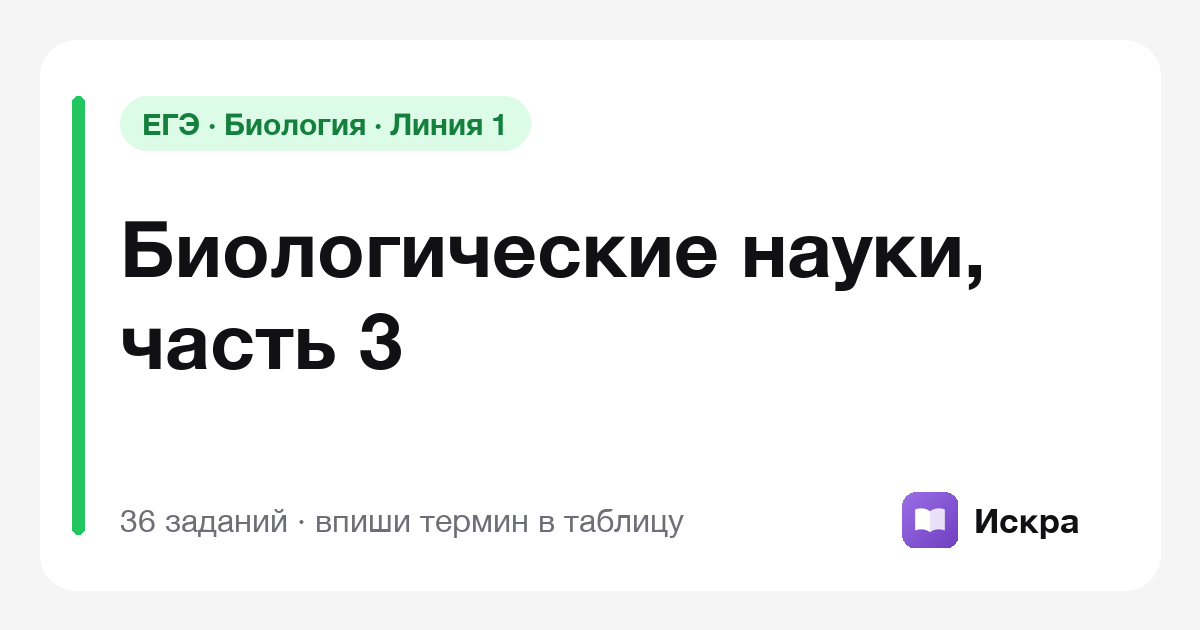
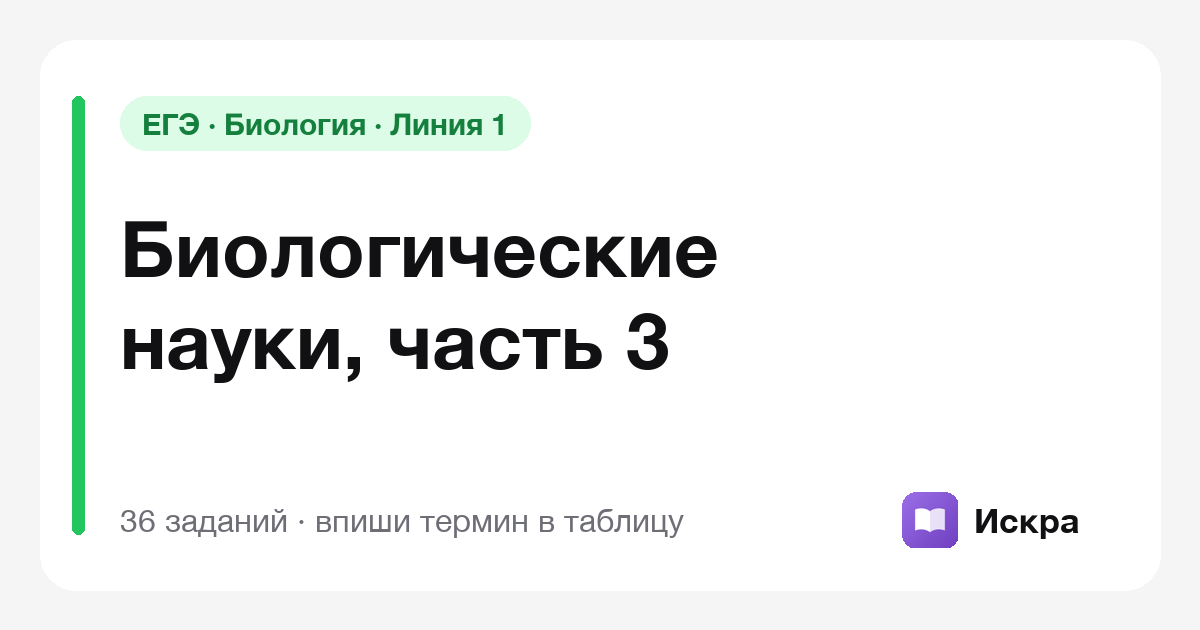
fix(тесты, ссылки): переносы в превью — «часть N» и «и» не отрываются от слова, строки выровнены, длинное название мельче в 2 строки

Changed region(s): [[0.0925, 0.4825, 0.555, 0.6032], [0.6167, 0.3619, 0.8325, 0.4825]]

diff --git a/public/t/custom-bio-line1-5-p2.html b/public/t/custom-bio-line1-5-p2.html
@@ -3,18 +3,18 @@
 <head>
 <meta charset="utf-8">
 <meta name="viewport" content="width=device-width, initial-scale=1">
-<title>Методы цитологии, генетики и селекции, часть 2 — тест по биологии</title>
+<title>Методы цитологии, генетики и селекции, часть 2 — тест по биологии</title>
 <meta name="description" content="Линия 1 ЕГЭ · 33 задания: впиши пропущенный термин в таблицу">
 <meta property="og:type" content="website">
 <meta property="og:site_name" content="Искра">
-<meta property="og:title" content="Методы цитологии, генетики и селекции, часть 2 — тест по биологии">
+<meta property="og:title" content="Методы цитологии, генетики и селекции, часть 2 — тест по биологии">
 <meta property="og:description" content="Линия 1 ЕГЭ · 33 задания: впиши пропущенный термин в таблицу">
 <meta property="og:url" content="https://edu-study-app.vercel.app/t/custom-bio-line1-5-p2">
-<meta property="og:image" content="https://edu-study-app.vercel.app/og/custom-bio-line1-5-p2.png">
+<meta property="og:image" content="https://edu-study-app.vercel.app/og/custom-bio-line1-5-p2.png?v=3">
 <meta property="og:image:width" content="1200">
 <meta property="og:image:height" content="630">
 <meta name="twitter:card" content="summary_large_image">
-<meta name="twitter:image" content="https://edu-study-app.vercel.app/og/custom-bio-line1-5-p2.png">
+<meta name="twitter:image" content="https://edu-study-app.vercel.app/og/custom-bio-line1-5-p2.png?v=3">
 <link rel="icon" type="image/svg+xml" href="/icon.svg?v=2">
 <script>
   // Лишние параметры короткой ссылки (?assignment=…) едут в тест как есть.

diff --git a/public/t/custom-bio-line1-5-p3.html b/public/t/custom-bio-line1-5-p3.html
@@ -3,18 +3,18 @@
 <head>
 <meta charset="utf-8">
 <meta name="viewport" content="width=device-width, initial-scale=1">
-<title>Методы цитологии, генетики и селекции, часть 3 — тест по биологии</title>
+<title>Методы цитологии, генетики и селекции, часть 3 — тест по биологии</title>
 <meta name="description" content="Линия 1 ЕГЭ · 33 задания: впиши пропущенный термин в таблицу">
 <meta property="og:type" content="website">
 <meta property="og:site_name" content="Искра">
-<meta property="og:title" content="Методы цитологии, генетики и селекции, часть 3 — тест по биологии">
+<meta property="og:title" content="Методы цитологии, генетики и селекции, часть 3 — тест по биологии">
 <meta property="og:description" content="Линия 1 ЕГЭ · 33 задания: впиши пропущенный термин в таблицу">
 <meta property="og:url" content="https://edu-study-app.vercel.app/t/custom-bio-line1-5-p3">
-<meta property="og:image" content="https://edu-study-app.vercel.app/og/custom-bio-line1-5-p3.png">
+<meta property="og:image" content="https://edu-study-app.vercel.app/og/custom-bio-line1-5-p3.png?v=3">
 <meta property="og:image:width" content="1200">
 <meta property="og:image:height" content="630">
 <meta name="twitter:card" content="summary_large_image">
-<meta name="twitter:image" content="https://edu-study-app.vercel.app/og/custom-bio-line1-5-p3.png">
+<meta name="twitter:image" content="https://edu-study-app.vercel.app/og/custom-bio-line1-5-p3.png?v=3">
 <link rel="icon" type="image/svg+xml" href="/icon.svg?v=2">
 <script>
   // Лишние параметры короткой ссылки (?assignment=…) едут в тест как есть.

diff --git a/public/t/custom-bio-line1-5-p4.html b/public/t/custom-bio-line1-5-p4.html
@@ -3,18 +3,18 @@
 <head>
 <meta charset="utf-8">
 <meta name="viewport" content="width=device-width, initial-scale=1">
-<title>Методы цитологии, генетики и селекции, часть 4 — тест по биологии</title>
+<title>Методы цитологии, генетики и селекции, часть 4 — тест по биологии</title>
 <meta name="description" content="Линия 1 ЕГЭ · 33 задания: впиши пропущенный термин в таблицу">
 <meta property="og:type" content="website">
 <meta property="og:site_name" content="Искра">
-<meta property="og:title" content="Методы цитологии, генетики и селекции, часть 4 — тест по биологии">
+<meta property="og:title" content="Методы цитологии, генетики и селекции, часть 4 — тест по биологии">
 <meta property="og:description" content="Линия 1 ЕГЭ · 33 задания: впиши пропущенный термин в таблицу">
 <meta property="og:url" content="https://edu-study-app.vercel.app/t/custom-bio-line1-5-p4">
-<meta property="og:image" content="https://edu-study-app.vercel.app/og/custom-bio-line1-5-p4.png">
+<meta property="og:image" content="https://edu-study-app.vercel.app/og/custom-bio-line1-5-p4.png?v=3">
 <meta property="og:image:width" content="1200">
 <meta property="og:image:height" content="630">
 <meta name="twitter:card" content="summary_large_image">
-<meta name="twitter:image" content="https://edu-study-app.vercel.app/og/custom-bio-line1-5-p4.png">
+<meta name="twitter:image" content="https://edu-study-app.vercel.app/og/custom-bio-line1-5-p4.png?v=3">
 <link rel="icon" type="image/svg+xml" href="/icon.svg?v=2">
 <script>
   // Лишние параметры короткой ссылки (?assignment=…) едут в тест как есть.

diff --git a/public/t/custom-bio-line1-5.html b/public/t/custom-bio-line1-5.html
@@ -3,18 +3,18 @@
 <head>
 <meta charset="utf-8">
 <meta name="viewport" content="width=device-width, initial-scale=1">
-<title>Методы цитологии, генетики и селекции, часть 1 — тест по биологии</title>
+<title>Методы цитологии, генетики и селекции, часть 1 — тест по биологии</title>
 <meta name="description" content="Линия 1 ЕГЭ · 33 задания: впиши пропущенный термин в таблицу">
 <meta property="og:type" content="website">
 <meta property="og:site_name" content="Искра">
-<meta property="og:title" content="Методы цитологии, генетики и селекции, часть 1 — тест по биологии">
+<meta property="og:title" content="Методы цитологии, генетики и селекции, часть 1 — тест по биологии">
 <meta property="og:description" content="Линия 1 ЕГЭ · 33 задания: впиши пропущенный термин в таблицу">
 <meta property="og:url" content="https://edu-study-app.vercel.app/t/custom-bio-line1-5">
-<meta property="og:image" content="https://edu-study-app.vercel.app/og/custom-bio-line1-5.png">
+<meta property="og:image" content="https://edu-study-app.vercel.app/og/custom-bio-line1-5.png?v=3">
 <meta property="og:image:width" content="1200">
 <meta property="og:image:height" content="630">
 <meta name="twitter:card" content="summary_large_image">
-<meta name="twitter:image" content="https://edu-study-app.vercel.app/og/custom-bio-line1-5.png">
+<meta name="twitter:image" content="https://edu-study-app.vercel.app/og/custom-bio-line1-5.png?v=3">
 <link rel="icon" type="image/svg+xml" href="/icon.svg?v=2">
 <script>
   // Лишние параметры короткой ссылки (?assignment=…) едут в тест как есть.

diff --git a/public/t/custom-bio-line1-3-p2.html b/public/t/custom-bio-line1-3-p2.html
@@ -3,18 +3,18 @@
 <head>
 <meta charset="utf-8">
 <meta name="viewport" content="width=device-width, initial-scale=1">
-<title>Уровни организации жизни, часть 2 — тест по биологии</title>
+<title>Уровни организации жизни, часть 2 — тест по биологии</title>
 <meta name="description" content="Линия 1 ЕГЭ · 39 заданий: впиши пропущенный термин в таблицу">
 <meta property="og:type" content="website">
 <meta property="og:site_name" content="Искра">
-<meta property="og:title" content="Уровни организации жизни, часть 2 — тест по биологии">
+<meta property="og:title" content="Уровни организации жизни, часть 2 — тест по биологии">
 <meta property="og:description" content="Линия 1 ЕГЭ · 39 заданий: впиши пропущенный термин в таблицу">
 <meta property="og:url" content="https://edu-study-app.vercel.app/t/custom-bio-line1-3-p2">
-<meta property="og:image" content="https://edu-study-app.vercel.app/og/custom-bio-line1-3-p2.png">
+<meta property="og:image" content="https://edu-study-app.vercel.app/og/custom-bio-line1-3-p2.png?v=3">
 <meta property="og:image:width" content="1200">
 <meta property="og:image:height" content="630">
 <meta name="twitter:card" content="summary_large_image">
-<meta name="twitter:image" content="https://edu-study-app.vercel.app/og/custom-bio-line1-3-p2.png">
+<meta name="twitter:image" content="https://edu-study-app.vercel.app/og/custom-bio-line1-3-p2.png?v=3">
 <link rel="icon" type="image/svg+xml" href="/icon.svg?v=2">
 <script>
   // Лишние параметры короткой ссылки (?assignment=…) едут в тест как есть.

diff --git a/public/t/custom-bio-line1-3-p3.html b/public/t/custom-bio-line1-3-p3.html
@@ -3,18 +3,18 @@
 <head>
 <meta charset="utf-8">
 <meta name="viewport" content="width=device-width, initial-scale=1">
-<title>Уровни организации жизни, часть 3 — тест по биологии</title>
+<title>Уровни организации жизни, часть 3 — тест по биологии</title>
 <meta name="description" content="Линия 1 ЕГЭ · 38 заданий: впиши пропущенный термин в таблицу">
 <meta property="og:type" content="website">
 <meta property="og:site_name" content="Искра">
-<meta property="og:title" content="Уровни организации жизни, часть 3 — тест по биологии">
+<meta property="og:title" content="Уровни организации жизни, часть 3 — тест по биологии">
 <meta property="og:description" content="Линия 1 ЕГЭ · 38 заданий: впиши пропущенный термин в таблицу">
 <meta property="og:url" content="https://edu-study-app.vercel.app/t/custom-bio-line1-3-p3">
-<meta property="og:image" content="https://edu-study-app.vercel.app/og/custom-bio-line1-3-p3.png">
+<meta property="og:image" content="https://edu-study-app.vercel.app/og/custom-bio-line1-3-p3.png?v=3">
 <meta property="og:image:width" content="1200">
 <meta property="og:image:height" content="630">
 <meta name="twitter:card" content="summary_large_image">
-<meta name="twitter:image" content="https://edu-study-app.vercel.app/og/custom-bio-line1-3-p3.png">
+<meta name="twitter:image" content="https://edu-study-app.vercel.app/og/custom-bio-line1-3-p3.png?v=3">
 <link rel="icon" type="image/svg+xml" href="/icon.svg?v=2">
 <script>
   // Лишние параметры короткой ссылки (?assignment=…) едут в тест как есть.

diff --git a/public/t/custom-bio-line1-3.html b/public/t/custom-bio-line1-3.html
@@ -3,18 +3,18 @@
 <head>
 <meta charset="utf-8">
 <meta name="viewport" content="width=device-width, initial-scale=1">
-<title>Уровни организации жизни, часть 1 — тест по биологии</title>
+<title>Уровни организации жизни, часть 1 — тест по биологии</title>
 <meta name="description" content="Линия 1 ЕГЭ · 39 заданий: впиши пропущенный термин в таблицу">
 <meta property="og:type" content="website">
 <meta property="og:site_name" content="Искра">
-<meta property="og:title" content="Уровни организации жизни, часть 1 — тест по биологии">
+<meta property="og:title" content="Уровни организации жизни, часть 1 — тест по биологии">
 <meta property="og:description" content="Линия 1 ЕГЭ · 39 заданий: впиши пропущенный термин в таблицу">
 <meta property="og:url" content="https://edu-study-app.vercel.app/t/custom-bio-line1-3">
-<meta property="og:image" content="https://edu-study-app.vercel.app/og/custom-bio-line1-3.png">
+<meta property="og:image" content="https://edu-study-app.vercel.app/og/custom-bio-line1-3.png?v=3">
 <meta property="og:image:width" content="1200">
 <meta property="og:image:height" content="630">
 <meta name="twitter:card" content="summary_large_image">
-<meta name="twitter:image" content="https://edu-study-app.vercel.app/og/custom-bio-line1-3.png">
+<meta name="twitter:image" content="https://edu-study-app.vercel.app/og/custom-bio-line1-3.png?v=3">
 <link rel="icon" type="image/svg+xml" href="/icon.svg?v=2">
 <script>
   // Лишние параметры короткой ссылки (?assignment=…) едут в тест как есть.

diff --git a/public/t/custom-bio-line1-4.html b/public/t/custom-bio-line1-4.html
@@ -3,18 +3,18 @@
 <head>
 <meta charset="utf-8">
 <meta name="viewport" content="width=device-width, initial-scale=1">
-<title>Общенаучные методы исследования — тест по биологии</title>
+<title>Общенаучные методы исследования — тест по биологии</title>
 <meta name="description" content="Линия 1 ЕГЭ · 28 заданий: впиши пропущенный термин в таблицу">
 <meta property="og:type" content="website">
 <meta property="og:site_name" content="Искра">
-<meta property="og:title" content="Общенаучные методы исследования — тест по биологии">
+<meta property="og:title" content="Общенаучные методы исследования — тест по биологии">
 <meta property="og:description" content="Линия 1 ЕГЭ · 28 заданий: впиши пропущенный термин в таблицу">
 <meta property="og:url" content="https://edu-study-app.vercel.app/t/custom-bio-line1-4">
-<meta property="og:image" content="https://edu-study-app.vercel.app/og/custom-bio-line1-4.png">
+<meta property="og:image" content="https://edu-study-app.vercel.app/og/custom-bio-line1-4.png?v=3">
 <meta property="og:image:width" content="1200">
 <meta property="og:image:height" content="630">
 <meta name="twitter:card" content="summary_large_image">
-<meta name="twitter:image" content="https://edu-study-app.vercel.app/og/custom-bio-line1-4.png">
+<meta name="twitter:image" content="https://edu-study-app.vercel.app/og/custom-bio-line1-4.png?v=3">
 <link rel="icon" type="image/svg+xml" href="/icon.svg?v=2">
 <script>
   // Лишние параметры короткой ссылки (?assignment=…) едут в тест как есть.

diff --git a/public/t/custom-bio-line1-1-p2.html b/public/t/custom-bio-line1-1-p2.html
@@ -3,18 +3,18 @@
 <head>
 <meta charset="utf-8">
 <meta name="viewport" content="width=device-width, initial-scale=1">
-<title>Биологические науки, часть 2 — тест по биологии</title>
+<title>Биологические науки, часть 2 — тест по биологии</title>
 <meta name="description" content="Линия 1 ЕГЭ · 36 заданий: впиши пропущенный термин в таблицу">
 <meta property="og:type" content="website">
 <meta property="og:site_name" content="Искра">
-<meta property="og:title" content="Биологические науки, часть 2 — тест по биологии">
+<meta property="og:title" content="Биологические науки, часть 2 — тест по биологии">
 <meta property="og:description" content="Линия 1 ЕГЭ · 36 заданий: впиши пропущенный термин в таблицу">
 <meta property="og:url" content="https://edu-study-app.vercel.app/t/custom-bio-line1-1-p2">
-<meta property="og:image" content="https://edu-study-app.vercel.app/og/custom-bio-line1-1-p2.png">
+<meta property="og:image" content="https://edu-study-app.vercel.app/og/custom-bio-line1-1-p2.png?v=3">
 <meta property="og:image:width" content="1200">
 <meta property="og:image:height" content="630">
 <meta name="twitter:card" content="summary_large_image">
-<meta name="twitter:image" content="https://edu-study-app.vercel.app/og/custom-bio-line1-1-p2.png">
+<meta name="twitter:image" content="https://edu-study-app.vercel.app/og/custom-bio-line1-1-p2.png?v=3">
 <link rel="icon" type="image/svg+xml" href="/icon.svg?v=2">
 <script>
   // Лишние параметры короткой ссылки (?assignment=…) едут в тест как есть.

diff --git a/public/t/custom-bio-line1-1-p3.html b/public/t/custom-bio-line1-1-p3.html
@@ -3,18 +3,18 @@
 <head>
 <meta charset="utf-8">
 <meta name="viewport" content="width=device-width, initial-scale=1">
-<title>Биологические науки, часть 3 — тест по биологии</title>
+<title>Биологические науки, часть 3 — тест по биологии</title>
 <meta name="description" content="Линия 1 ЕГЭ · 36 заданий: впиши пропущенный термин в таблицу">
 <meta property="og:type" content="website">
 <meta property="og:site_name" content="Искра">
-<meta property="og:title" content="Биологические науки, часть 3 — тест по биологии">
+<meta property="og:title" content="Биологические науки, часть 3 — тест по биологии">
 <meta property="og:description" content="Линия 1 ЕГЭ · 36 заданий: впиши пропущенный термин в таблицу">
 <meta property="og:url" content="https://edu-study-app.vercel.app/t/custom-bio-line1-1-p3">
-<meta property="og:image" content="https://edu-study-app.vercel.app/og/custom-bio-line1-1-p3.png">
+<meta property="og:image" content="https://edu-study-app.vercel.app/og/custom-bio-line1-1-p3.png?v=3">
 <meta property="og:image:width" content="1200">
 <meta property="og:image:height" content="630">
 <meta name="twitter:card" content="summary_large_image">
-<meta name="twitter:image" content="https://edu-study-app.vercel.app/og/custom-bio-line1-1-p3.png">
+<meta name="twitter:image" content="https://edu-study-app.vercel.app/og/custom-bio-line1-1-p3.png?v=3">
 <link rel="icon" type="image/svg+xml" href="/icon.svg?v=2">
 <script>
   // Лишние параметры короткой ссылки (?assignment=…) едут в тест как есть.

diff --git a/public/t/custom-bio-line1-1-p4.html b/public/t/custom-bio-line1-1-p4.html
@@ -3,18 +3,18 @@
 <head>
 <meta charset="utf-8">
 <meta name="viewport" content="width=device-width, initial-scale=1">
-<title>Биологические науки, часть 4 — тест по биологии</title>
+<title>Биологические науки, часть 4 — тест по биологии</title>
 <meta name="description" content="Линия 1 ЕГЭ · 35 заданий: впиши пропущенный термин в таблицу">
 <meta property="og:type" content="website">
 <meta property="og:site_name" content="Искра">
-<meta property="og:title" content="Биологические науки, часть 4 — тест по биологии">
+<meta property="og:title" content="Биологические науки, часть 4 — тест по биологии">
 <meta property="og:description" content="Линия 1 ЕГЭ · 35 заданий: впиши пропущенный термин в таблицу">
 <meta property="og:url" content="https://edu-study-app.vercel.app/t/custom-bio-line1-1-p4">
-<meta property="og:image" content="https://edu-study-app.vercel.app/og/custom-bio-line1-1-p4.png">
+<meta property="og:image" content="https://edu-study-app.vercel.app/og/custom-bio-line1-1-p4.png?v=3">
 <meta property="og:image:width" content="1200">
 <meta property="og:image:height" content="630">
 <meta name="twitter:card" content="summary_large_image">
-<meta name="twitter:image" content="https://edu-study-app.vercel.app/og/custom-bio-line1-1-p4.png">
+<meta name="twitter:image" content="https://edu-study-app.vercel.app/og/custom-bio-line1-1-p4.png?v=3">
 <link rel="icon" type="image/svg+xml" href="/icon.svg?v=2">
 <script>
   // Лишние параметры короткой ссылки (?assignment=…) едут в тест как есть.

diff --git a/public/t/custom-bio-line1-1.html b/public/t/custom-bio-line1-1.html
@@ -3,18 +3,18 @@
 <head>
 <meta charset="utf-8">
 <meta name="viewport" content="width=device-width, initial-scale=1">
-<title>Биологические науки, часть 1 — тест по биологии</title>
+<title>Биологические науки, часть 1 — тест по биологии</title>
 <meta name="description" content="Линия 1 ЕГЭ · 36 заданий: впиши пропущенный термин в таблицу">
 <meta property="og:type" content="website">
 <meta property="og:site_name" content="Искра">
-<meta property="og:title" content="Биологические науки, часть 1 — тест по биологии">
+<meta property="og:title" content="Биологические науки, часть 1 — тест по биологии">
 <meta property="og:description" content="Линия 1 ЕГЭ · 36 заданий: впиши пропущенный термин в таблицу">
 <meta property="og:url" content="https://edu-study-app.vercel.app/t/custom-bio-line1-1">
-<meta property="og:image" content="https://edu-study-app.vercel.app/og/custom-bio-line1-1.png">
+<meta property="og:image" content="https://edu-study-app.vercel.app/og/custom-bio-line1-1.png?v=3">
 <meta property="og:image:width" content="1200">
 <meta property="og:image:height" content="630">
 <meta name="twitter:card" content="summary_large_image">
-<meta name="twitter:image" content="https://edu-study-app.vercel.app/og/custom-bio-line1-1.png">
+<meta name="twitter:image" content="https://edu-study-app.vercel.app/og/custom-bio-line1-1.png?v=3">
 <link rel="icon" type="image/svg+xml" href="/icon.svg?v=2">
 <script>
   // Лишние параметры короткой ссылки (?assignment=…) едут в тест как есть.
